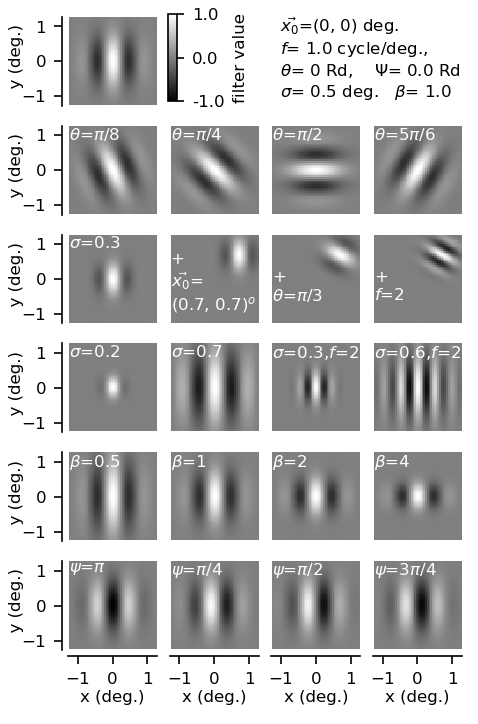
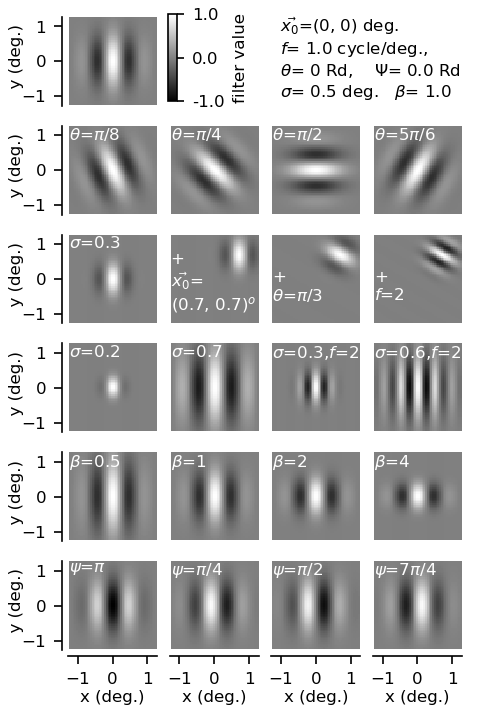
correced gabor fig

Changed region(s): [[0.7908, 0.7901, 0.9372, 0.8812]]

diff --git a/vision/gabor_filters.py b/vision/gabor_filters.py
@@ -140,8 +140,8 @@ $f$={freq}
     gabor_plot(ge, new_parameters, AX[5][1], title='$\\psi$=$\pi$/4')
     new_parameters['psi'] = np.pi/2.
     gabor_plot(ge, new_parameters, AX[5][2], title='$\\psi$=$\pi$/2')
-    new_parameters['psi'] = 3*np.pi/4.
-    gabor_plot(ge, new_parameters, AX[5][3], title='$\\psi$=3$\pi$/4')
+    new_parameters['psi'] = 7*np.pi/4.
+    gabor_plot(ge, new_parameters, AX[5][3], title='$\\psi$=7$\pi$/4')
     new_parameters = params.copy()
 
     # beta
